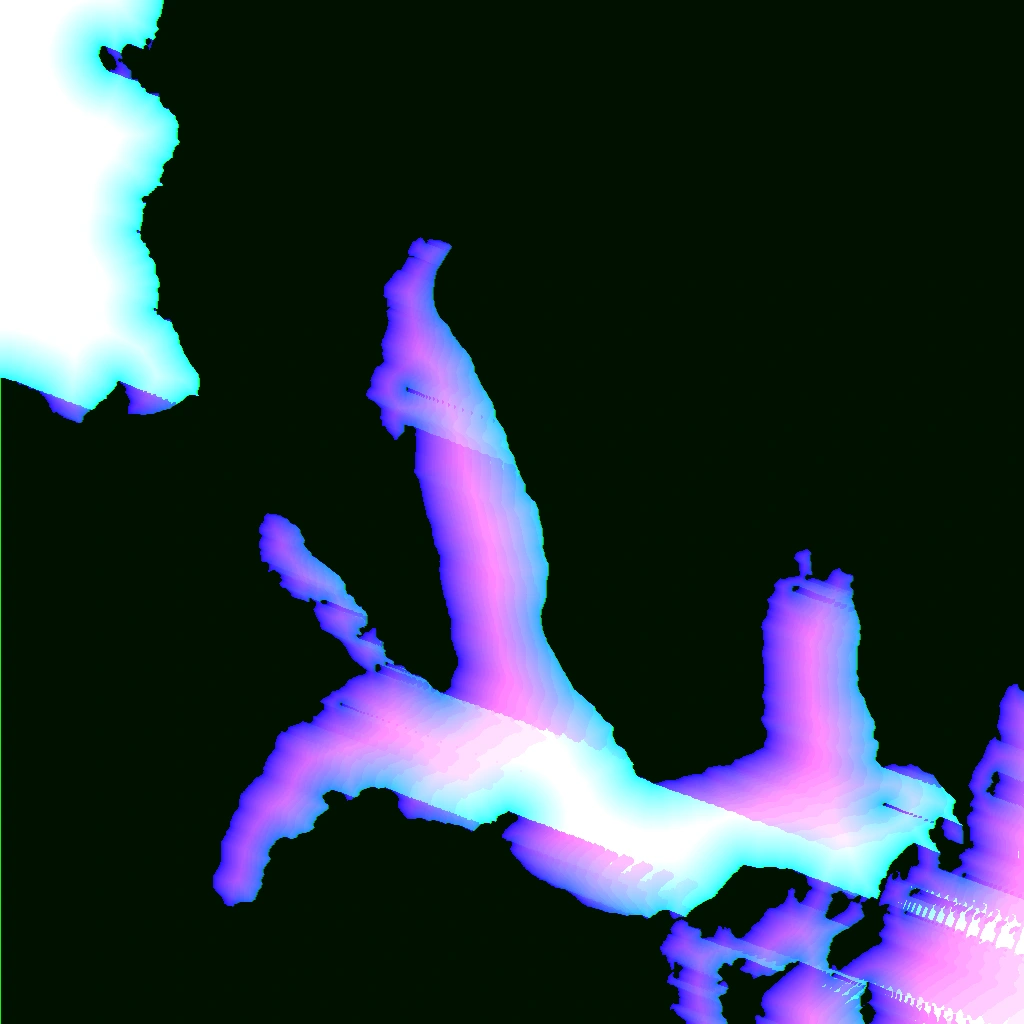
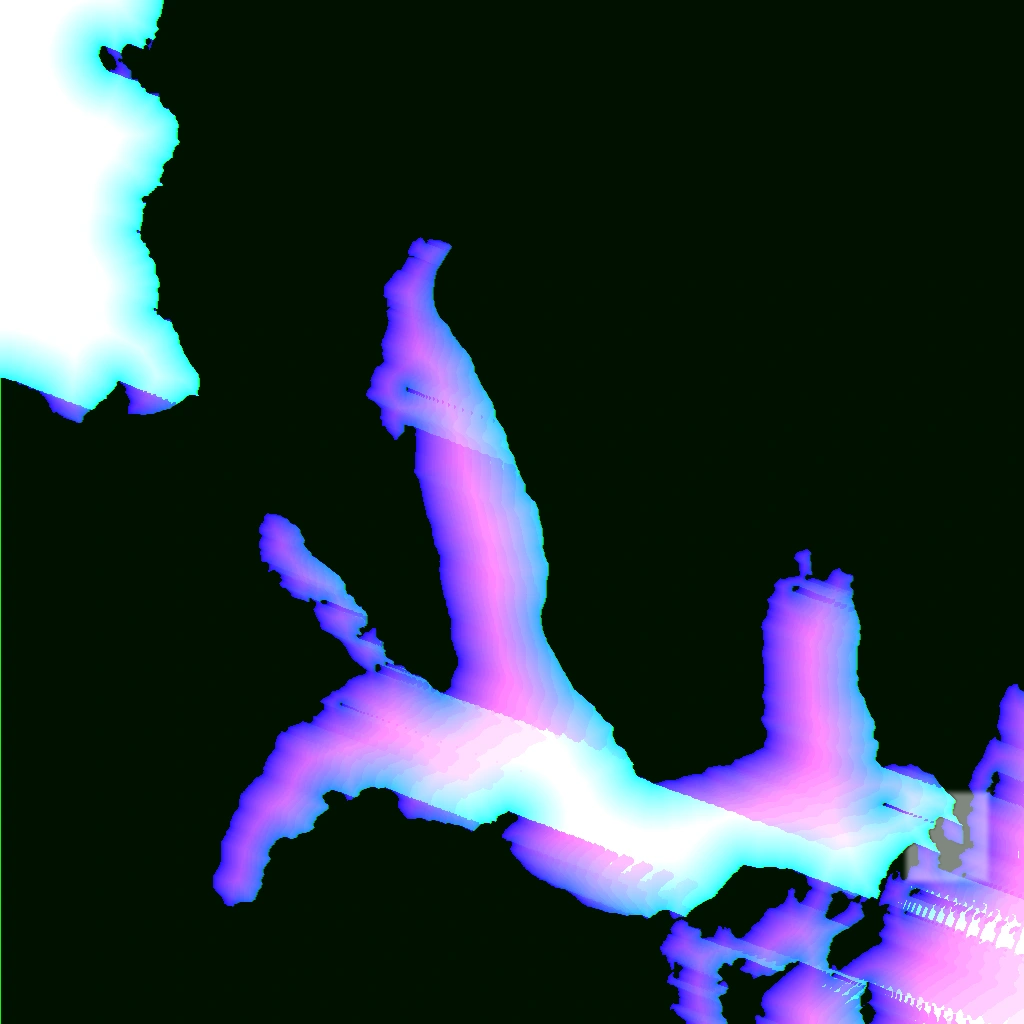
Shelter Hamnøy harbor water behind its mapped headlands

Changed region(s): [[0.875, 0.75, 0.9688, 0.875]]

diff --git a/game/water-surface.js b/game/water-surface.js
@@ -84,6 +84,19 @@
             vec2 screenSlope=(viewMatrix*vec4(surfaceNormal.x,0.,surfaceNormal.z,0.)).xy;
             vec2 warp=screenSlope*distortionScale*(.063+.49/max(5.,distance));`);
       }
+      if(atlas&&region==='lofoten'){
+        // The register comes from the 2 m Hamnøy survey and the wider fjord.
+        // Its alpha is 255 outside the harbor. Retain wind ripples in the lee.
+        shader=shader.replace('vec3 shore=texture2D(shoreField,basin).rgb;', `
+          vec4 shore=texture2D(shoreField,basin);
+          float harborSwell=clamp((shore.a*255.-128.)/127.,0.,1.);`)
+          .replace('float coast=shoreExposure,', 'float coast=shoreExposure*mix(.11,1.,harborSwell),')
+          .replace('float incident=mix(', 'float incident=mix(.035,1.,harborSwell*harborSwell)*mix(')
+          .replace('float white=oceanSurf*', 'float white=oceanSurf*harborSwell*harborSwell*')
+          .replace('vec3 wave=waterWaves(p,time,footprint,energy);', `
+            energy*=mix(.065,1.,harborSwell);
+            vec3 wave=waterWaves(p,time,footprint,energy);`);
+      }
       mat.fragmentShader=atlas&&light?lowSunReflection(mat,shader,light):shader;mat.needsUpdate=true;
     });
   }

diff --git a/tools/geology/field-sites/bake_hamnoy_shelter.py b/tools/geology/field-sites/bake_hamnoy_shelter.py
@@ -1,0 +1,88 @@
+"""Add measured Hamnøy fetch to the alpha plane of the original atlas shore image.
+
+The existing lossy VP8 principal image is copied byte-for-byte. Geometry and
+terrain come from the installed Kartverket local survey and the fjord DEM.
+"""
+import argparse
+import base64
+import io
+import json
+import struct
+from pathlib import Path
+import numpy as np
+from PIL import Image
+from scipy.ndimage import gaussian_filter, map_coordinates
+
+
+def smooth(lo, hi, x):
+    v = np.clip((x-lo)/(hi-lo), 0, 1)
+    return v*v*(3-2*v)
+
+
+def chunks(data):
+    cursor = 12
+    while cursor + 8 <= len(data):
+        tag, size = struct.unpack_from("<4sI", data, cursor)
+        yield tag, data[cursor+8:cursor+8+size]
+        cursor += 8 + size + (size & 1)
+
+
+def pack(tag, data):
+    return tag+struct.pack("<I", len(data))+data+b"\0"*(len(data)&1)
+
+
+def harbor_alpha(game, width, height):
+    atlas = json.loads((game/"atlas-lofoten-survey.js").read_text().split("]=")[-1].rstrip(";\n"))
+    full = np.frombuffer(base64.b64decode(atlas["terrain"]), "<i2")
+    full = full.reshape(round(np.sqrt(full.size)), -1).astype(float)*.25
+    detail = (game/"landform-hamnoy.bin").read_bytes()
+    _, _, step, left, top, right, bottom, nx, nz, datum, unit, _ = struct.unpack_from("<4sHH4iHHffI", detail)
+    harbor = np.frombuffer(detail, "<i2", offset=40, count=nx*nz).reshape(nz, nx)*unit+datum
+    half = atlas["half"]
+    def ground(x, z):
+        coarse = map_coordinates(full, [(z+half)/(2*half)*(len(full)-1),(x+half)/(2*half)*(len(full)-1)],order=1,mode="nearest")
+        local = map_coordinates(harbor, [(z-top)/step,(x-left)/step],order=1,mode="nearest")
+        return np.where((x>left)&(x<right)&(z>top)&(z<bottom),local,coarse)
+    # Incoming wave components in water-surface.js propagate east-southeast.
+    # Cast back from each inlet sample over an angular spread around that bearing.
+    z, x = np.mgrid[0:height, 0:width]
+    x, z = ((x+.5)/width*2-1)*half, ((z+.5)/height*2-1)*half
+    frame = np.minimum.reduce([x-left, right-x, z-top, bottom-z])
+    inside = frame > 0
+    p, q = x[inside], z[inside]
+    energy = np.zeros_like(p)
+    for angle in np.linspace(-54, 54, 13):
+        theta = np.arctan2(-.475,-.88) + np.deg2rad(angle)
+        first = np.full(len(p), 2400.)
+        for distance in np.geomspace(4, 2400, 55):
+            onland = ground(p+np.cos(theta)*distance, q+np.sin(theta)*distance) > .24
+            first = np.where(onland, np.minimum(first, distance), first)
+        # Saturating wave energy from unobstructed water upwind. Short harbor
+        # rays retain capillary chop but cannot build a train of breaking swell.
+        energy += smooth(140, 1700, first)/13
+    coverage = np.ones((height,width), dtype=float)
+    coverage[inside] = 1 + (energy-1)*smooth(0,80,frame[inside])
+    coverage = gaussian_filter(coverage,.85)
+    return np.rint(128+127*np.clip(coverage,0,1)).astype("u1")
+
+
+def bake(game, output):
+    source = (game/"atlas-lofoten-shore.webp").read_bytes()
+    image = Image.open(io.BytesIO(source))
+    width, height = image.size
+    alpha = harbor_alpha(game, width, height)
+    # WebP ALPH prediction/compression is generated by libwebp. Keep original
+    # VP8 color independently so the unchanged fjord has identical decoded data.
+    carrier = Image.new("RGBA", image.size, (143,143,143,255))
+    carrier.putalpha(Image.fromarray(alpha)); buffer = io.BytesIO(); carrier.save(buffer, format="WEBP", quality=80)
+    a = next(data for tag, data in chunks(buffer.getvalue()) if tag==b"ALPH")
+    color = next(data for tag, data in chunks(source) if tag==b"VP8 ")
+    ext = b"\x10\0\0\0"+(width-1).to_bytes(3,"little")+(height-1).to_bytes(3,"little")
+    result = b"WEBP"+pack(b"VP8X",ext)+pack(b"ALPH",a)+pack(b"VP8 ",color)
+    output.write_bytes(b"RIFF"+struct.pack("<I",len(result))+result)
+
+
+if __name__ == "__main__":
+    parser=argparse.ArgumentParser(description=__doc__)
+    parser.add_argument("--game",type=Path,required=True); parser.add_argument("--output",type=Path,required=True)
+    args=parser.parse_args();bake(args.game,args.output)

diff --git a/tools/geology/field-sites/README.md b/tools/geology/field-sites/README.md
@@ -40,3 +40,5 @@ python tools/geology/field-sites/bake_oeschinen_wall.py --cache /path/to/cache -
 | --- | --- |
[2 lines of base64/hex data omitted]
+
+**Hamnøy sheltered water.** `bake_hamnoy_shelter.py` packs wave exposure in the alpha of the existing fjord shore image. It casts 13 inbound bearings through the 2 m local terrain and surrounding fjord DEM up to 2.4 km. The map describes the modeled east-southeast wave field at this departure, with open water outside the local coverage. The original shore color payload is copied intact. Rebuild with `python tools/geology/field-sites/bake_hamnoy_shelter.py --game game --output /path/to/atlas-lofoten-shore.webp`. Original inputs are the credited installed Hamnøy terrain model, fjord survey and shore RGB. Comparison photography of the working harbor is reference only. [Kartverket national terrain model](https://kartverket.no/en/api-and-data/terrengdata) · [Kartverket terms](https://www.kartverket.no/en/api-and-data/terms-of-use) · [Harbor operator](https://rorbuer.no/history/)
